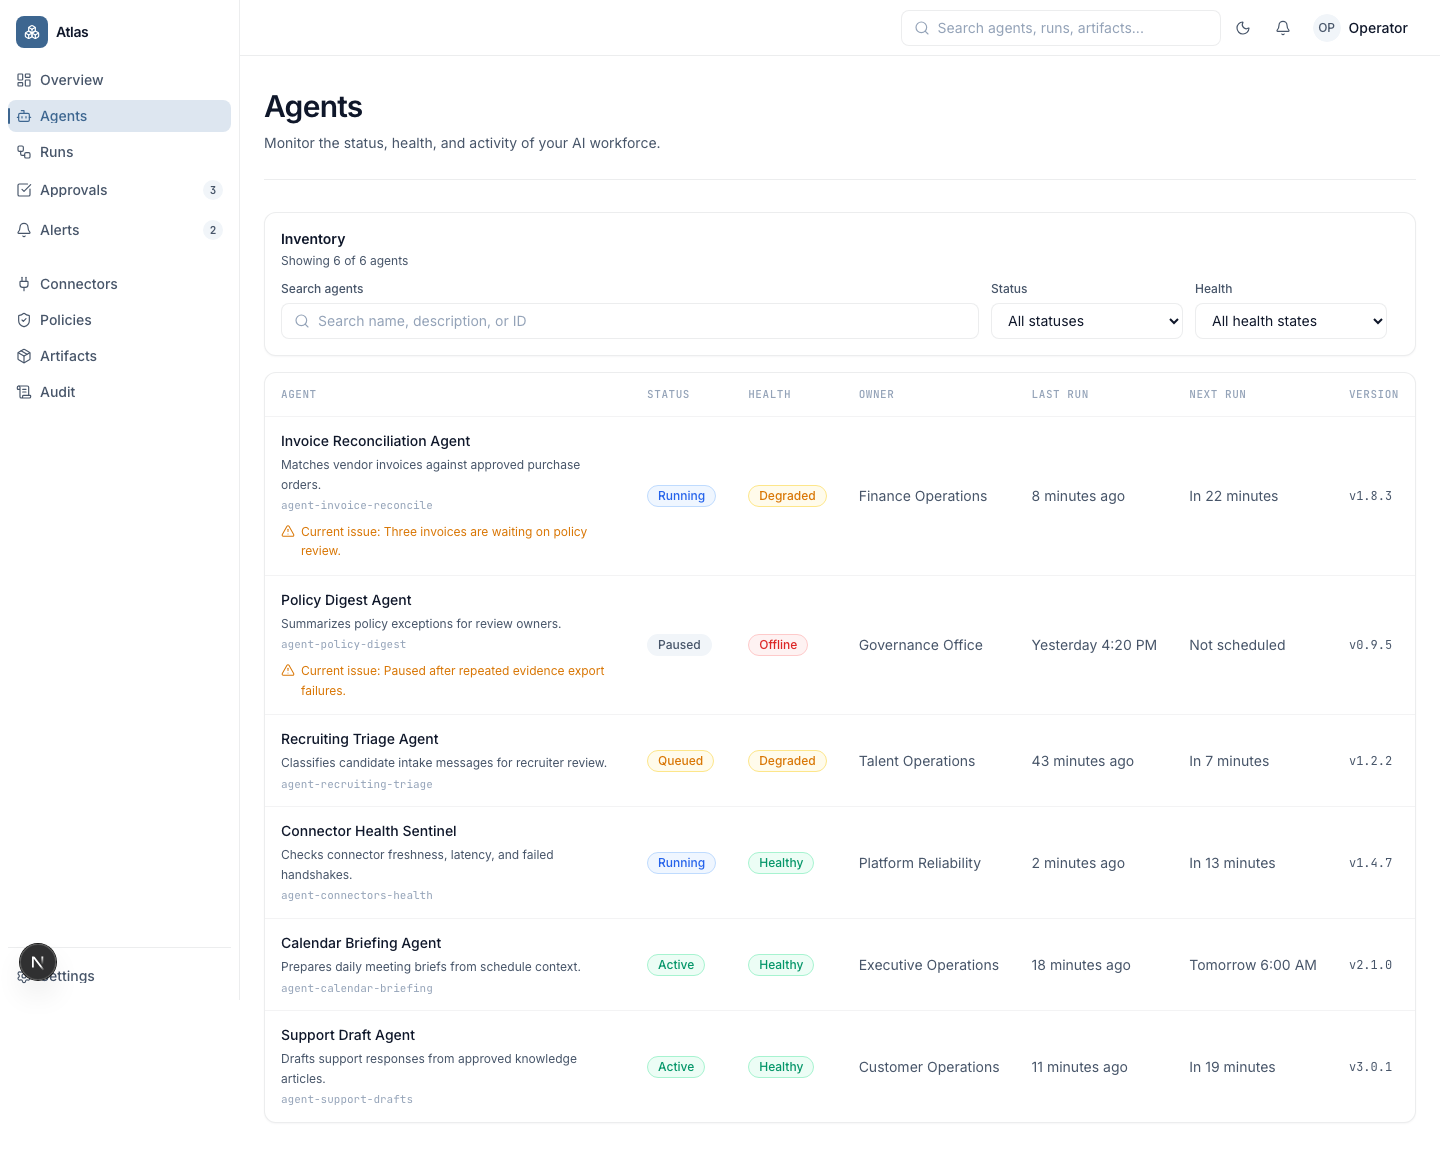
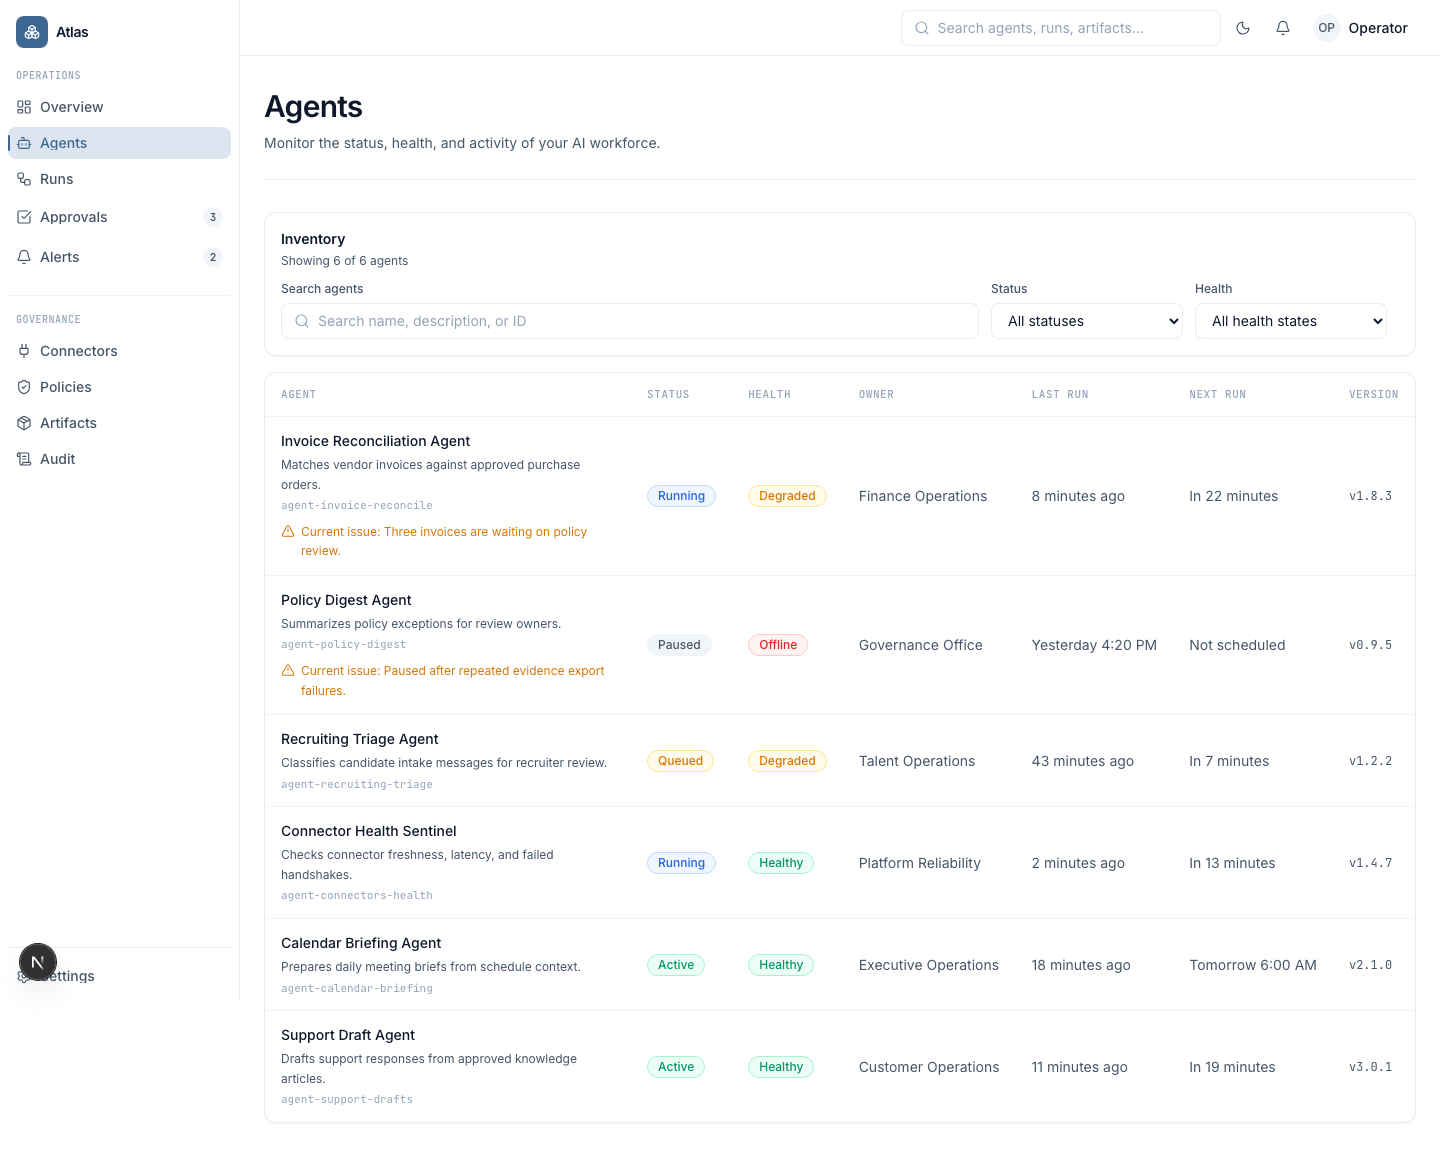
Clarify sidebar navigation groups

Changed region(s): [[0.0, 0.0623, 0.1875, 0.4052]]

diff --git a/apps/web/src/components/layout/sidebar.tsx b/apps/web/src/components/layout/sidebar.tsx
@@ -7,6 +7,9 @@ import { NAV_ITEMS, SETTINGS_NAV_ITEM } from "./nav-items";
 import { Separator } from "@/components/ui/separator";
 import { cn } from "@/lib/utils";
 
+const OPERATIONS_NAV_ITEMS = NAV_ITEMS.slice(0, 5);
+const GOVERNANCE_NAV_ITEMS = NAV_ITEMS.slice(5);
+
 function NavLink({
   item,
   active,
@@ -68,16 +71,34 @@ export function SidebarNav({ onNavigate }: { onNavigate?: () => void }) {
         <span className="text-sm font-semibold tracking-tight text-foreground">Atlas</span>
       </div>
 
-      <div className="mt-1 flex flex-1 flex-col gap-1">
-        {NAV_ITEMS.map((item) => (
-          <NavLink
-            key={item.href}
-            item={item}
-            active={pathname === item.href}
-            onNavigate={onNavigate}
-            className={item.label === "Connectors" ? "mt-4" : undefined}
-          />
-        ))}
+      <div className="mt-2 flex flex-1 flex-col gap-5">
+        <div className="flex flex-col gap-1">
+          <p className="px-2 pb-1 font-mono text-[10px] font-medium uppercase tracking-wider text-foreground-tertiary">
+            Operations
+          </p>
+          {OPERATIONS_NAV_ITEMS.map((item) => (
+            <NavLink
+              key={item.href}
+              item={item}
+              active={pathname === item.href}
+              onNavigate={onNavigate}
+            />
+          ))}
+        </div>
+
+        <div className="flex flex-col gap-1 border-t border-border-subtle pt-4">
+          <p className="px-2 pb-1 font-mono text-[10px] font-medium uppercase tracking-wider text-foreground-tertiary">
+            Governance
+          </p>
+          {GOVERNANCE_NAV_ITEMS.map((item) => (
+            <NavLink
+              key={item.href}
+              item={item}
+              active={pathname === item.href}
+              onNavigate={onNavigate}
+            />
+          ))}
+        </div>
       </div>
 
       <Separator className="my-2" />